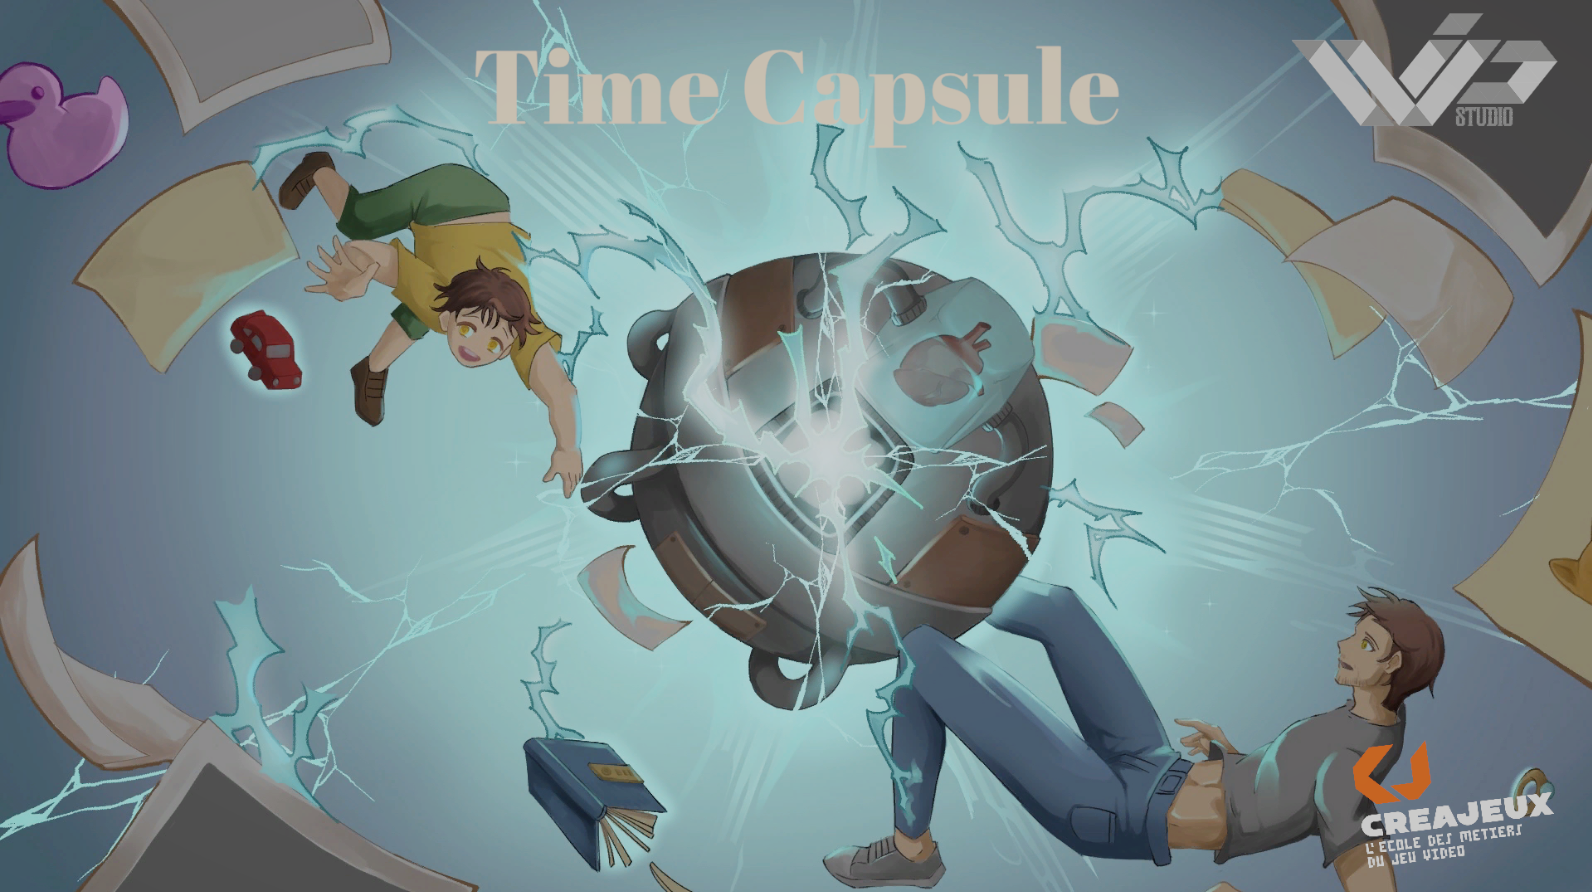
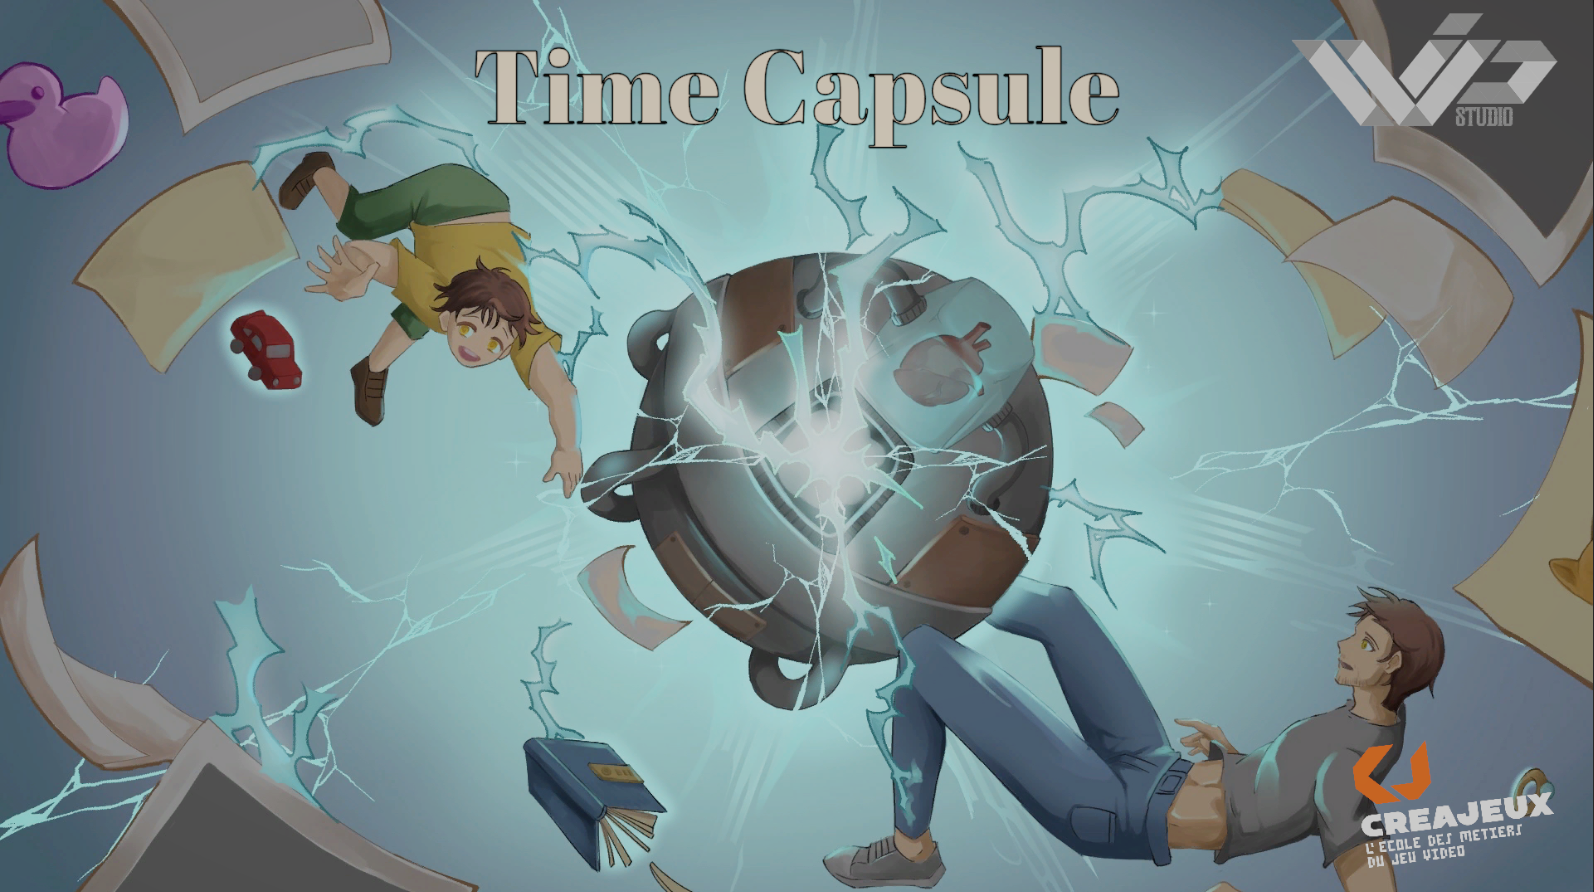
Added a tools and changed a project image to be more readable

diff --git a/index.html b/index.html
@@ -108,16 +108,17 @@
 						<img src="images/BrandLogo/GitLogo.png" alt="Git" />
 						<img src="images/BrandLogo/TortoiseSVNLogo.png" alt="Tortoise SVN"/>
 						<img src="images/BrandLogo/FMODLogo.png" alt="Fmod"/>
+						<img src="images/BrandLogo/WwiseLogo.png" alt="Wwise"/>
 					</article>
 				</div>
 			</div>
 		 </article>
 
 		<!-- Education -->
-		 <article id="education" class="wrapper style2">
+		 <!-- <article id="education" class="wrapper style2">
 			<h1>Education</h1>
-
-		 </article>
+			<p>I'm currently following a formation at Creajeux and I'm in the last year of it, after which I will get my diploma</p>
+		 </article> -->
 
 		<!-- About me-->
 		 <article id="about" class="wrapper style2">
